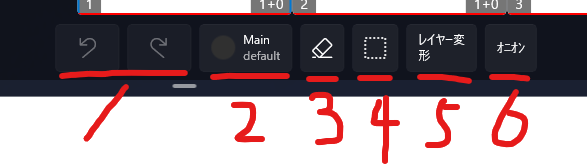
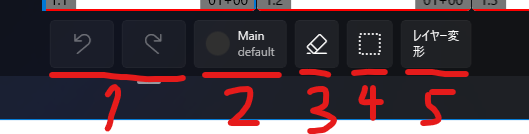
v0.0.9 updated.

diff --git a/starryboard/updates.md b/starryboard/updates.md
@@ -9,6 +9,24 @@
 
 ## 更新履歴
 
+### v0.0.9 2024/09
+
+### 修正
+
+* カット編集ページのオニオンスキンは「リファレンス」タブに移動しました
+* カット削除やカット接続切替のタイミングで内部情報が壊れ、エピソード読み込みが出来なくなっていた問題を軽減しました
+* すべてエクスポート時に各エクスポート方法の有効・無効切替が反映されていなかった問題を修正しました
+* エクスポート方法「台本」をすべてエクスポートに含めていた場合に、台本のみエクスポート処理が開始しない問題を修正しました
+* エクスポート方法「動画の字幕」の対象指定のデフォルト値をActionからDialogに変更しました
+
+### 機能更新
+
+* エクスポート方法に「動画用チャプターテキスト」を追加しました
+  * 同時にffmpegを利用した動画とチャプターの結合用Batファイルを出力できます
+  * ffmpegは別途インストールが必要です [詳しくはこちら](/starryboard/features/merge-video-and-chapters)
+
+
+
 ### v0.0.8 2024/09
 
 ### 修正
